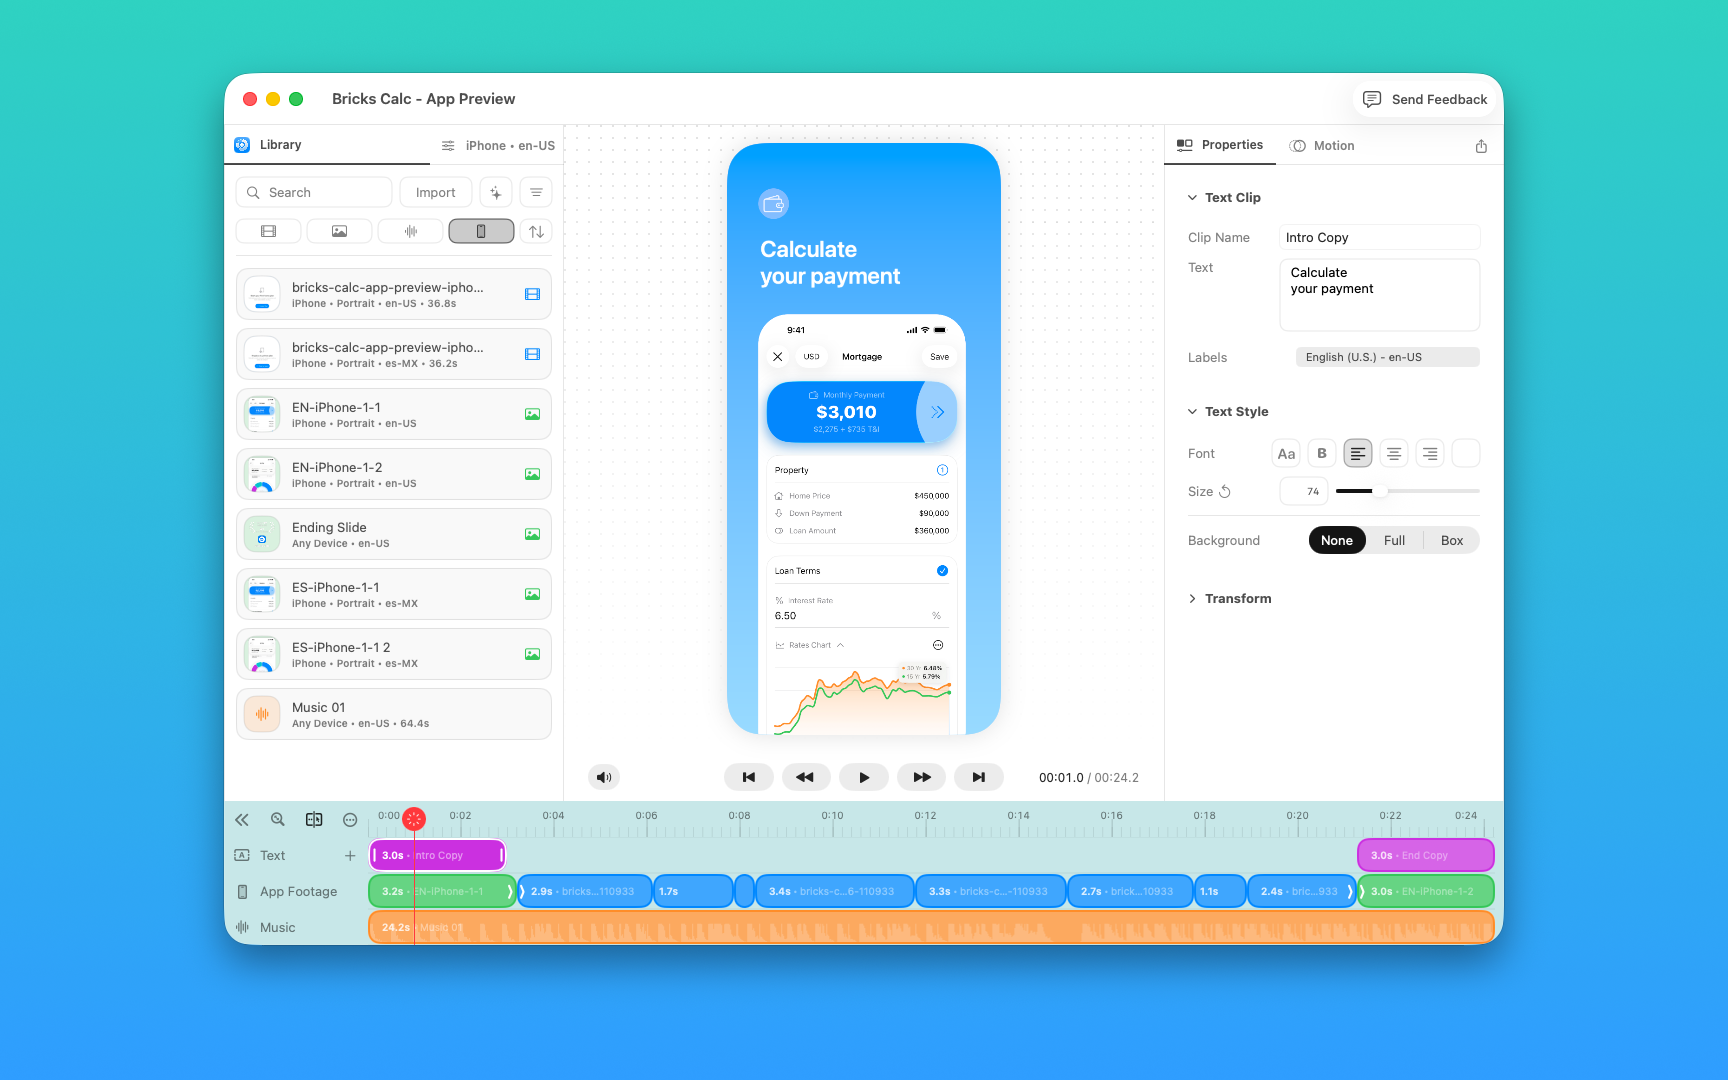
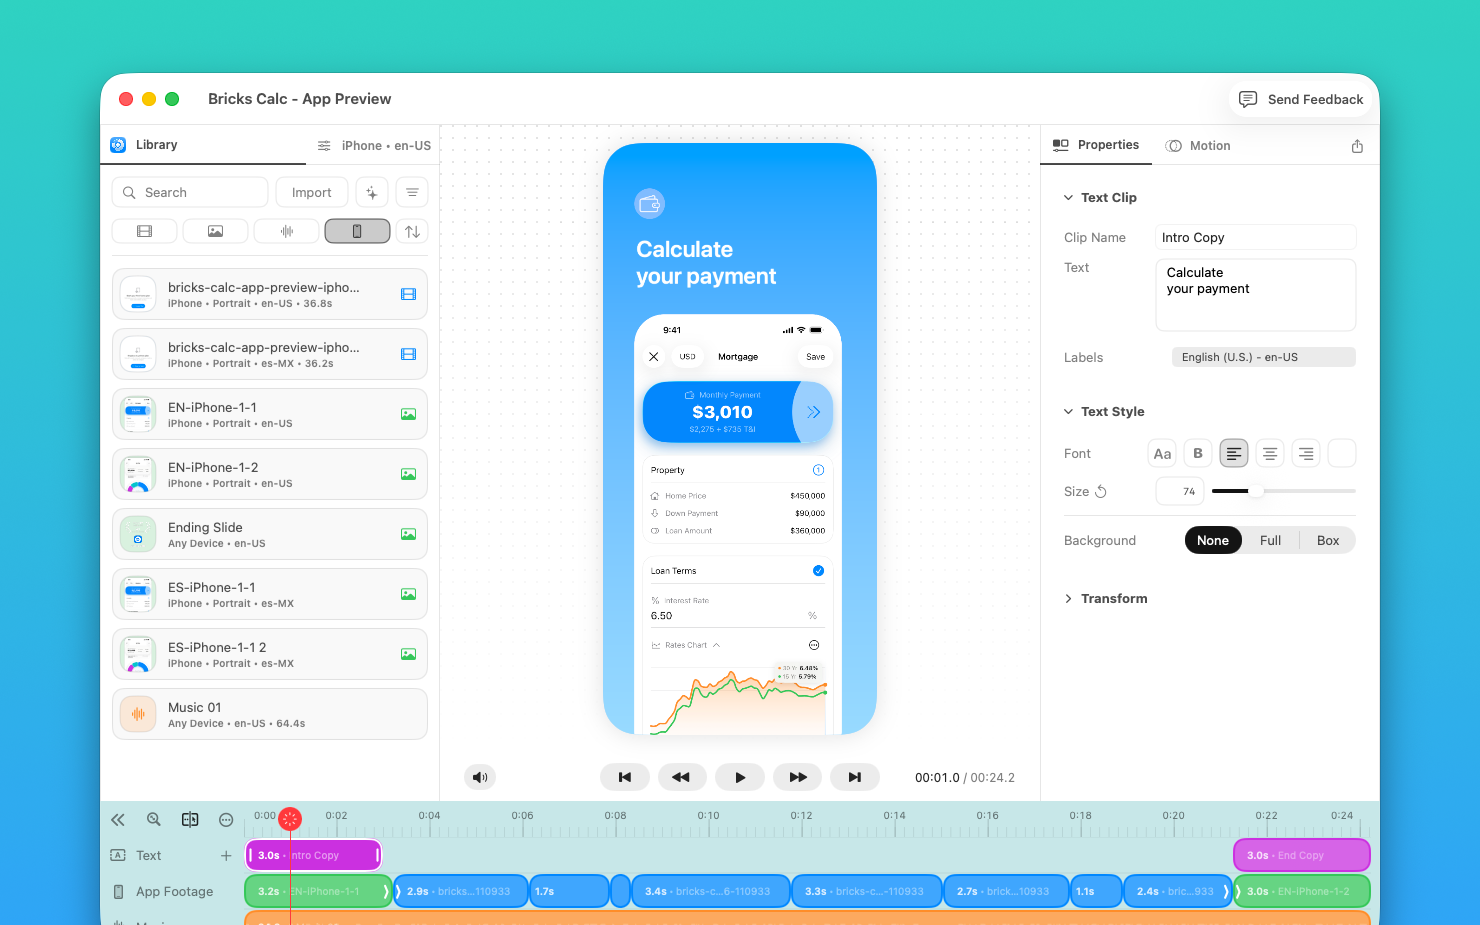
Updates

diff --git a/app-preview-editor/styles.css b/app-preview-editor/styles.css
@@ -15,6 +15,7 @@
   --shadow: 0 24px 70px rgba(11, 15, 20, 0.12);
   --radius: 16px;
   --radius-large: 28px;
+  --radius-hero: 48px;
   --ease: cubic-bezier(0.16, 1, 0.3, 1);
   --shell: 1180px;
 }
@@ -93,7 +94,7 @@ h3 { font-size: 1.8rem; font-weight: 680; }
 
 .hero { min-height: calc(100dvh - 68px); padding-block: 44px 72px; display: grid; gap: 48px; align-items: center; }
 .hero-copy { max-width: 860px; margin-inline: auto; text-align: center; }
-.hero-workflow { width: 100%; margin-inline: auto; }
+.hero-workflow { width: 100%; margin-inline: auto; border: 1px solid var(--border); border-radius: var(--radius-hero); }
 .hero-word { display: inline-block; }
 .hero-lede { max-width: 25ch; margin: 0 auto 10px; font-size: clamp(1.4rem, 5vw, 2rem); font-weight: 630; letter-spacing: -0.025em; }
 .hero-body { max-width: 58ch; margin: 0 auto 28px; color: var(--text-secondary); font-size: 1.08rem; }
